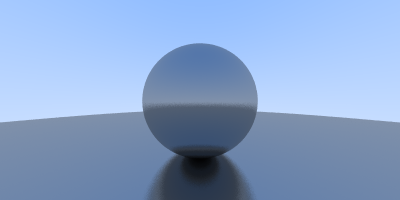
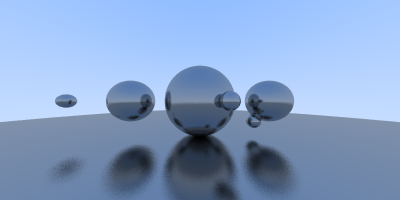
scene build method and scene

diff --git a/src/main.rs b/src/main.rs
@@ -11,25 +11,14 @@ fn main() {
     let mut g: Geometry = Default::default();
     let c: Camera = Default::default();
 
-    g.bodies.push(Box::new(Sphere {
-        center: Vector3::new(0.0f32, 0.0, -1.0),
-        radius: 0.5,
-        material: Material {
-            attenuation: 0.02,
-            refraction: 0.5,
-            fuzz: 0.3,
-        },
-    }));
-
-    g.bodies.push(Box::new(Sphere {
-        center: Vector3::new(0.0f32, -100.5, -1.0),
-        radius: 100.0f32,
-        material: Material {
-            attenuation: 0.02,
-            refraction: 0.5,
-            fuzz: 0.3,
-        },
-    }));
+    g
+        .add_sphere(0.0, 0.0, -1.5, 0.5)
+        .add_sphere(1.0, 0.0, -1.5, 0.3)
+        .add_sphere(0.3, 0.0, -1.0, 0.1)
+        .add_sphere(0.8, -0.3, -1.5, 0.1)
+        .add_sphere(-1.0, 0.0, -1.5, 0.3)
+        .add_sphere(-2.0, 0.0, -1.5, 0.1)
+        .add_sphere(0.0, -100.5, -1.5, 100.0);
 
     let ib: RgbImage = c.render(&g).convert();
 

diff --git a/src/geometry.rs b/src/geometry.rs
@@ -24,6 +24,21 @@ pub struct Geometry {
     pub bodies: Vec<Box<dyn Hit>>,
 }
 
+impl Geometry {
+    pub fn add_sphere(&mut self, x: Scalar, y: Scalar, z: Scalar, r: Scalar) -> &mut Geometry {
+        self.bodies.push(Box::new(Sphere {
+            center: Vector3::new(x, y, z),
+            radius: r,
+            material: Material {
+                attenuation: 0.02,
+                refraction: 0.5,
+                fuzz: 0.3,
+            },
+        }));
+        return self;
+    }
+}
+
 impl Default for Geometry {
     fn default() -> Self {
         Self { bodies: Vec::new() }
